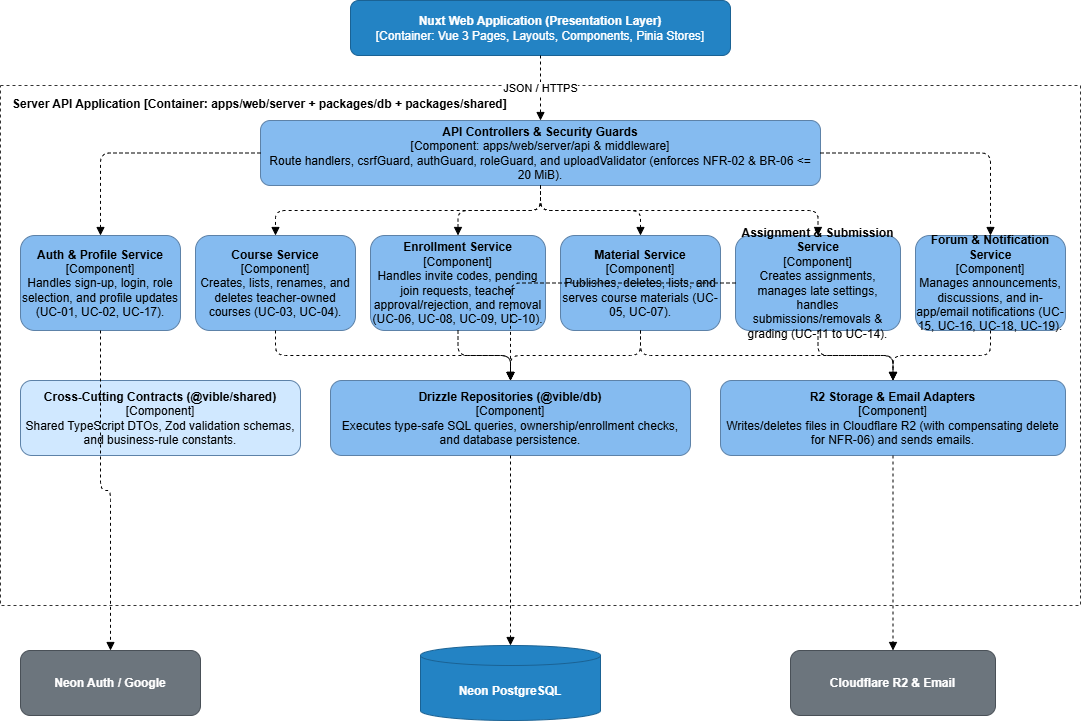
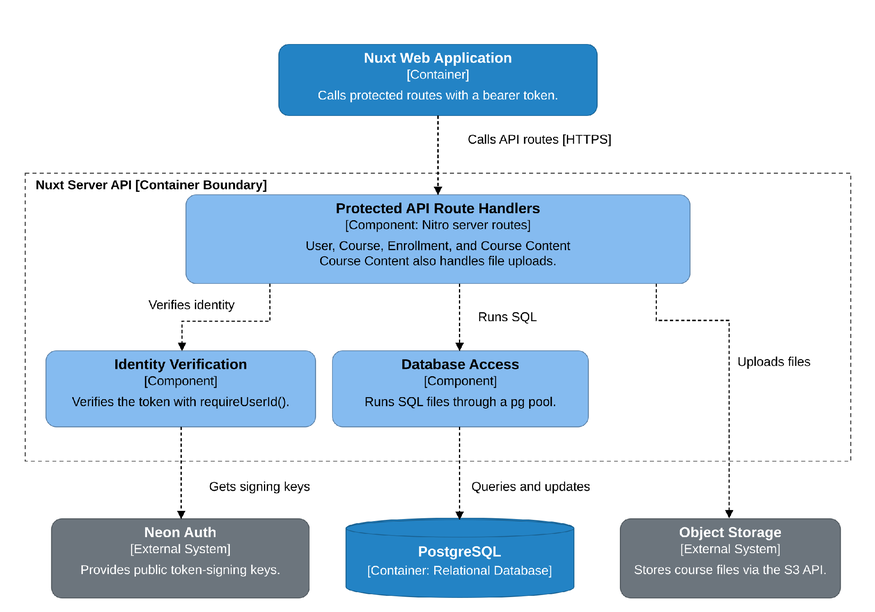
docs: added erd, and ai usage log

diff --git a/docs/ai-usage/PA3/htngan.md b/docs/ai-usage/PA3/htngan.md
@@ -1,0 +1,5 @@
+| # | Member | Tool | Task / purpose | How the output was verified and changed |
+|---|---|---|---|---|
+| 1 | Huỳnh Trung Ngạn| OpenAI Codex | Assist with sequence diagrams for login, course creation, enrollment, submission, and grading (PA3 §4.4, issue #101). | Codex checked UC-06 and UC-10 against PA2 §7. The diagrams show a valid invitation creating a pending enrollment request and the course owner approving the request before the student gains access. |
+| 2 | Huỳnh Trung Ngạn| OpenAI Codex | Assist with state machine diagrams for Enrollment, Assignment, and Submission (PA3 §4.5, issue #106). | Codex checked enrollment approval and rejection against BR-03. For BR-07, Codex verified the deadline transitions and the conditions for submitting or removing work after the deadline. |
+| 3 | Huỳnh Trung Ngạn| OpenAI Codex | Map PA2 requirements to PA3 design elements in the traceability matrix (PA3 §7, issue #113). | The PM reviewed the draft and requested concise design-element names. Codex replaced the explanations with control, class, diagram, and architecture decision names. After PM approval, Codex verified all 28 saved entries against the approved wording. |
